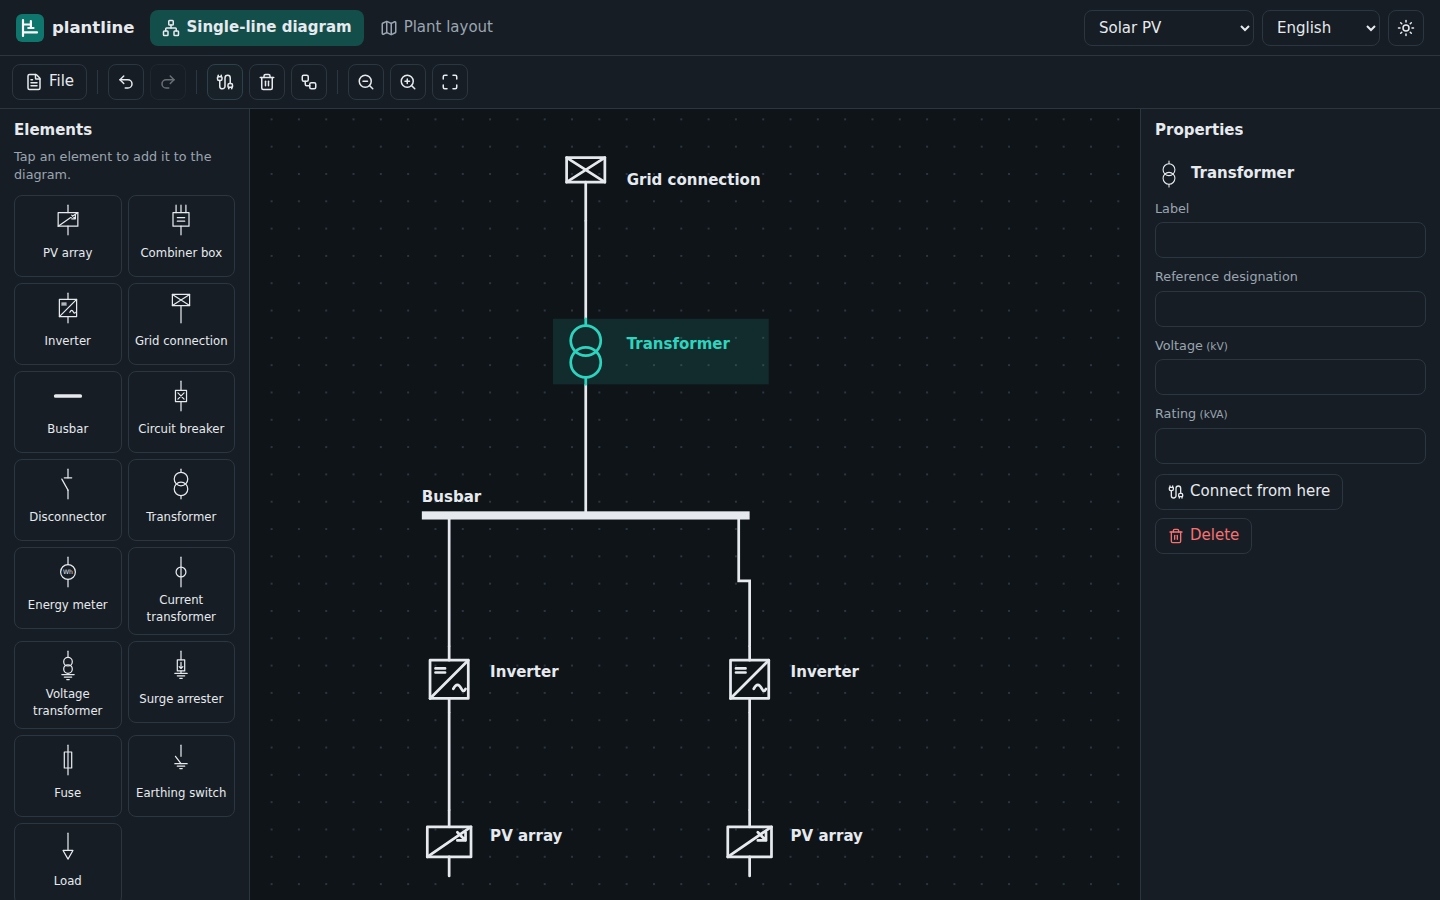
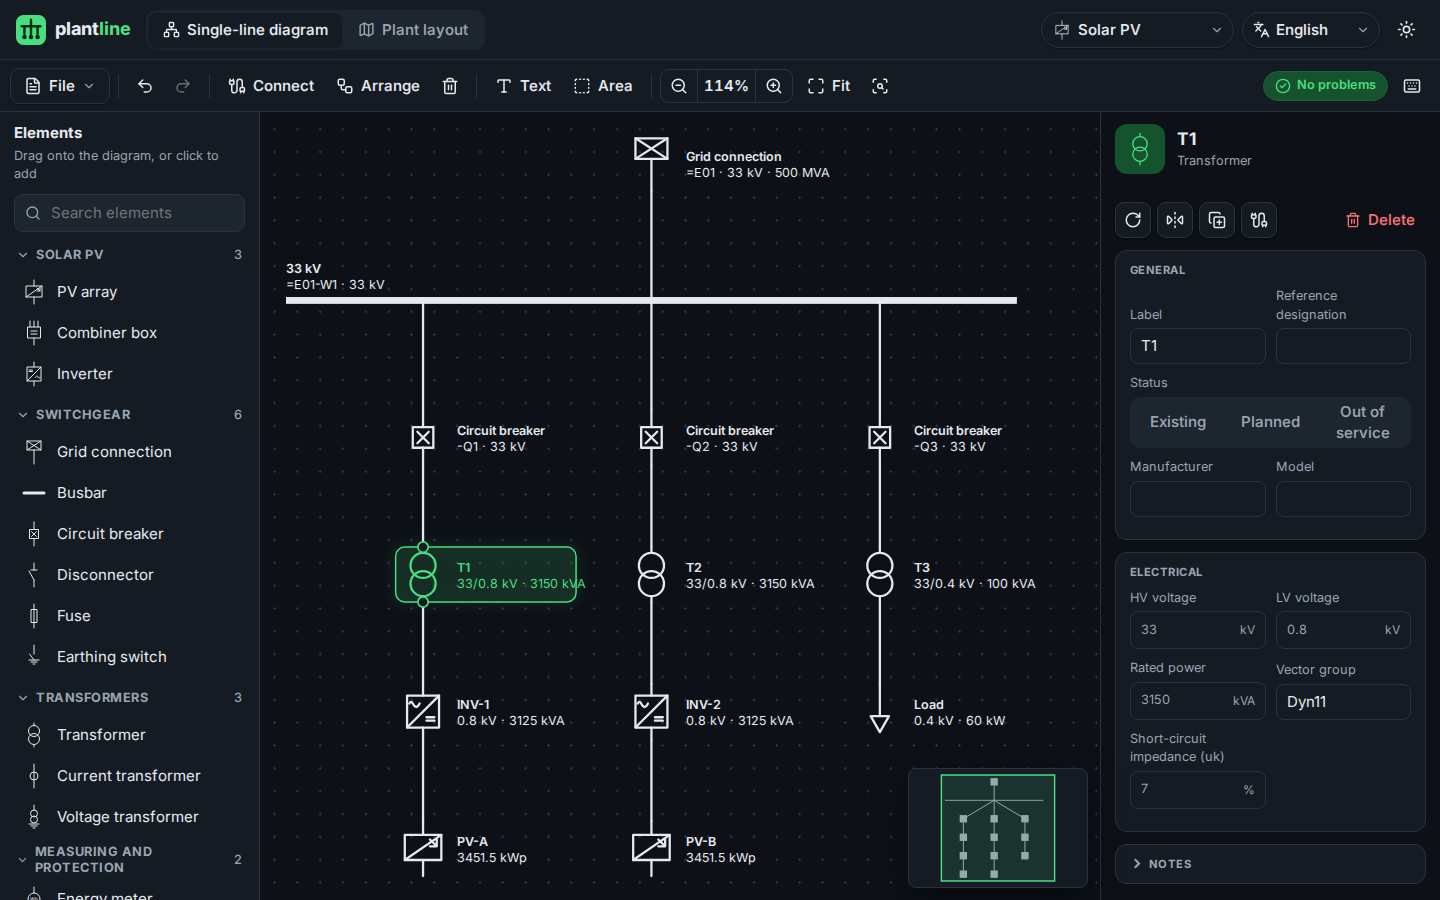
docs: README screenshots of the new design, Persian instead of Arabic (S22)
New screenshots: a solar example in the dark theme, the wind sample on satellite
imagery, the solar sample on a phone (both as JPEG) and a substation example in
Persian. Stories, tasks and test cases for the examples, dropped drawings, the phone
header menu and the toolbar's More menu. The map legend is smaller on phones; the
wind example is drawn with its turbines on top, as wind farms are.

diff --git a/web/src/diagram/examples.ts b/web/src/diagram/examples.ts
@@ -13,8 +13,12 @@ interface Element {
     width?: number;
 }
 
-/** Elements by key and the lines between them, the upper element first; laid out by Arrange. */
-type Example = { elements: Record<string, Element>; lines: [string, string][] };
+/**
+ * Elements by key and the lines between them, the upper element first; laid out by Arrange. `upward` draws the plant
+ * upside down, its sources on top feeding down to the grid at the bottom (as wind farms are drawn: a turbine's one
+ * lead is at the foot of its tower).
+ */
+type Example = { elements: Record<string, Element>; lines: [string, string][]; upward?: boolean };
 
 const grid = (kv: number, mva: number): Element => ({ kind: "gridConnection", designation: "=E01", props: { voltageKv: kv, shortCircuitMva: mva } });
 const bus = (kv: number, designation: string, width = 520): Element => ({ kind: "busbar", label: `${kv} kV`, designation, props: { voltageKv: kv, ratedCurrentA: 1250 }, width });
@@ -43,7 +47,7 @@ const EXAMPLES: Record<PlantType, () => Example> = {
         return example;
     },
     wind: () => {
-        const example: Example = { elements: { grid: grid(33, 800), bus: bus(33, "=E01-W1", 640) }, lines: [["grid", "bus"]] };
+        const example: Example = { elements: { grid: grid(33, 800), bus: bus(33, "=E01-W1", 640) }, lines: [["grid", "bus"]], upward: true };
         for (const n of [1, 2, 3]) feeder(n, 33, [transformer(`T${n}`, 33, 0.69, 4800), { kind: "windTurbine", label: `WTG-0${n}`, props: { ratedPowerKw: 4500, voltageKv: 0.69, powerFactor: 0.95 } }], example);
         return example;
     },
@@ -113,7 +117,7 @@ const EXAMPLES: Record<PlantType, () => Example> = {
 
 /** A ready-made single-line diagram of the plant type, connected and laid out, with no problems to check. */
 export function exampleDiagram(plant: PlantType, name: string): Diagram {
-    const { elements, lines } = EXAMPLES[plant]();
+    const { elements, lines, upward } = EXAMPLES[plant]();
     let diagram = emptyDiagram(plant, name);
     const ids = new Map<string, string>();
     Object.entries(elements).forEach(([key, element], index) => {
@@ -122,7 +126,18 @@ export function exampleDiagram(plant: PlantType, name: string): Diagram {
         ids.set(key, added.id);
     });
     for (const [from, to] of lines) diagram = connect(diagram, ids.get(from)!, ids.get(to)!) ?? diagram;
-    return straighten(arrange(diagram), lines.map(([from, to]) => [ids.get(from)!, ids.get(to)!]));
+    const laid = straighten(arrange(diagram), lines.map(([from, to]) => [ids.get(from)!, ids.get(to)!]));
+    return upward ? upsideDown(laid) : laid;
+}
+
+/** The diagram turned upside down: rows mirrored and every element turned over, but turbines kept upright. */
+function upsideDown(diagram: Diagram): Diagram {
+    const ys = diagram.nodes.map((node) => node.y);
+    const [top, bottom] = [Math.min(...ys), Math.max(...ys)];
+    return {
+        ...diagram,
+        nodes: diagram.nodes.map((node) => ({ ...node, y: top + bottom - node.y, rotation: node.kind === "windTurbine" || node.kind === "busbar" ? node.rotation : (((node.rotation + 180) % 360) as Rotation) })),
+    };
 }
 
 /** An element that is its upper element's only one hangs straight below it, top-down (Arrange centres whole rows). */

diff --git a/web/src/app.css b/web/src/app.css
@@ -2312,6 +2312,15 @@ kbd {
     font-variant-numeric: tabular-nums;
 }
 
+@media (max-width: 720px) {
+    .map-legend {
+        min-width: 0;
+        max-height: 32%;
+        padding: 7px 9px;
+        font-size: 0.72rem;
+    }
+}
+
 /* What a counted object is, over the map: a dark tooltip, and a popup in the app's colours */
 .object-tooltip,
 .object-popup .leaflet-popup-content {

diff --git a/docs/test-cases.md b/docs/test-cases.md
@@ -16,6 +16,7 @@ request ([CI](../.github/workflows/ci.yml)).
 | --- | --- | --- | --- |
 | TC-01 | US-01 | The first visit asks for the plant type; the palette then starts with that plant's equipment. | `App.test.tsx` › asks for the plant type on the first visit…; e2e › every test starts this way |
 | TC-02 | US-01 | Every plant type has a palette of known elements, without repeats, with a grid connection. | `plants.test.ts` › give every plant type a palette… |
+| TC-02a | US-10 | Every element is in exactly one palette group; the palette's search and groups show the plant type's elements in its own order. | `plants.test.ts` › put every element in exactly one palette group; `App.test.tsx` › changes the palette with the plant type… |
 | TC-03 | US-02 | Changing the plant type changes the palette and keeps the diagram. | `App.test.tsx` › changes the palette with the plant type and keeps the diagram |
 | TC-04 | US-03 | Every language has exactly the English messages, none empty, with the same placeholders. | `i18n.test.ts` › have a file for every language… |
 | TC-05 | US-03 | Every plant type and every element and object kind has a name. | `i18n.test.ts` › name every plant type… |
@@ -28,6 +29,10 @@ request ([CI](../.github/workflows/ci.yml)).
 | TC-76 | US-03 | English shows Inter and Persian Estedad, both served with the site. | e2e › shows its own fonts, Estedad for Persian… |
 | TC-77 | US-05, US-41 | The app icons in the manifest, the home screen icon and the link preview image exist. | e2e › shows its own fonts… and has app icons and a link preview |
 | TC-78 | US-04 | The header's logo is the favicon's mark, drawn in the theme's colours. | `Logo.test.tsx` › draws the same mark as the favicon |
+| TC-96 | US-05 | On a phone, the plant type, language and theme are in the header's menu, and choosing a language closes it. | e2e › every phone test that changes the language |
+| TC-97 | US-05, US-18a | A narrower window keeps Delete, texts, areas, Zoom to selection and Shortcuts in a More menu; a phone keeps them, with the file actions, in the bottom bar's menu. | e2e › shows and resets the zoom…, builds, connects, checks and saves… |
+| TC-98 | US-06 | Every plant type's example is connected, of its own elements, without problems, laid out without overlaps, and saves and opens unchanged. | `examples.test.ts` |
+| TC-99 | US-06 | The empty diagram opens this or another plant type's example (switching the plant type), with No problems; Undo takes it back; File offers the example too. | e2e › opens a ready-made example from the empty diagram… |
 
 ## Single-line diagram
 
@@ -129,6 +134,8 @@ request ([CI](../.github/workflows/ci.yml)).
 | TC-73 | US-31, US-39 | A large plant's own shapes are projected point by point while its small blocks are still placed through transforms, within 2 cm. | `scene.test.ts` › projects a large plant's own shapes… |
 | TC-74 | US-39 | A generated plant the size of a real one (17,920 modules nested four deep, about 700,000 points) reads three times in the WebAssembly reader within the limits: 6 s and 650 MB. | CI › Read a large drawing… (`scripts/check-reader.mjs`) |
 | TC-75 | US-05, US-39 | The compressed download stays within its limits: the app's scripts and styles 300 KB, the drawing reader 7 MB. | CI › Download sizes… (`scripts/check-size.mjs`) |
+| TC-100 | US-30a | A DXF dropped onto the plant layout is read and counted. | e2e › opens a drawing dropped onto the plant layout |
+| TC-101 | US-31 | Another plant type's sample card switches the plant type and reads its sample. | e2e › opens the sample of another plant type… |
 
 ## Checked by hand before each release
 

diff --git a/docs/user-stories.md b/docs/user-stories.md
@@ -33,16 +33,22 @@ battery storage, hydropower, substation or transmission line), so the tool shows
 - Latin, Greek and Cyrillic letters use Inter and Arabic and Persian use Estedad on every device, served with the site.
 - Every message exists in every language.
 
-**US-04 Light or dark.** As a user, I choose a light or dark theme; the first one follows my system. The map stays
-readable in both, and satellite imagery keeps its real colours.
+**US-04 Light or dark.** As a user, I choose a light or dark theme, or follow my system (the first choice). The map
+stays readable in both, and satellite imagery keeps its real colours.
 
 **US-05 Phones and tablets.** As a field engineer, I use plantline on a phone or tablet.
 - The page never scrolls sideways; the toolbar scrolls within the screen.
+- The header is one row: the two views and a menu with the plant type, the language and the theme.
+- The toolbar keeps the most used tools; the others (and the file actions) are in the bottom bar's menu.
 - The palette, properties and drawing details open as sheets from a bar at the bottom.
 - The diagram pans with a finger and zooms with two.
 - Added to the home screen, it has its own icon.
 
 ## Epic B: Single-line diagram
+
+**US-06 Start from an example.** As a new user, I open a ready-made single-line diagram of any plant type (connected,
+with no problems to check) from the empty diagram, or the current plant type's from the File menu, and change it.
+Another plant type's example switches the plant type. The empty diagram also says, in three steps, how to start.
 
 **US-10 Add equipment.** As a design engineer, I drag an element from the palette onto the drawing, where it lands on
 the grid point under the pointer, or I tap it and it appears in the middle of the view; either way it is selected.
@@ -159,7 +165,11 @@ browser and never uploaded. While it is read I see the time so far and can cance
 or a reader that cannot be loaded each give a clear message at once, with "Try again" where it may help; a file likely
 too large for my device's memory is read only if I agree.
 
-**US-31 Try a sample.** Without a drawing of my own, I open a made-up sample of the current plant type.
+**US-30a Drop a drawing.** I drop a DWG or DXF onto the plant layout to read it, also over a drawing already open.
+
+**US-31 Try a sample.** Without a drawing of my own, I open a made-up sample of any plant type, each card saying what
+it holds; another plant type's sample switches the plant type. The samples are drawn as real plant drawings are, on
+real ground.
 
 **US-32 Recognise and count.** The objects of the drawing are recognised by their block and layer names, with rules
 for the plant type: counted (tables, strings, inverters, turbines, batteries, generators, transformers, breakers,

diff --git a/README.md b/README.md
@@ -34,7 +34,7 @@ plantline is a web tool for the people who design, build and run power plants. D
 
 ### Plant layouts from AutoCAD drawings
 
-![A wind farm drawing on the map with its turbines, cables and roads counted](docs/images/layout-wind.png)
+![A wind farm drawing on the map with its turbines, cables and roads counted](docs/images/layout-wind.jpg)
 
 - **Open DWG or DXF** drawings from AutoCAD, PVcase or any CAD tool, up to 100 MB. The drawing is read in your browser.
 - **Recognise the plant:** block and layer names are matched to tables, strings, inverters, turbines, batteries, transformers, breakers, towers, cables, roads and fences. Each plant type has its own rules, and you can edit them.
@@ -50,7 +50,7 @@ plantline is a web tool for the people who design, build and run power plants. D
 
 | Phone, plant layout | Arabic, right to left |
 | --- | --- |
-| ![The solar sample on a phone](docs/images/phone-layout.png) | ![The substation palette in Arabic](docs/images/arabic.png) |
+| ![The solar sample on a phone](docs/images/phone-layout.jpg) | ![A substation diagram in Persian, right to left](docs/images/persian.png) |
 
 ## Your files stay yours
 

diff --git a/docs/tasks.md b/docs/tasks.md
@@ -25,6 +25,7 @@ The work behind each [user story](user-stories.md), in the order it was done, an
 | T-17 | CI: tests on every push and pull request; GitHub Pages on `main`; actions pinned to commits. | US-41 | `.github/workflows/ci.yml` |
 | T-18 | Supply chain: packages at least 7 days old (pnpm and Dependabot), versions at least two weeks old at release. | US-42 | `web/pnpm-workspace.yaml`, `.github/dependabot.yml` |
 | T-19 | Documents: README, user stories, tasks, test cases, architecture, contributing, security, changelog. | all | `README.md`, `docs/`, root files |
+| T-20 | Interface refresh: one set of components (buttons, segmented controls, pills, cards, menus with keys, status chips); header, toolbar, palette, properties, map and first use; examples per plant type; drawings dropped onto the layout. | US-04, US-05, US-06, US-30a, US-31 | `web/src/app.css`, `web/src/ui/controls.tsx`, `web/src/diagram/examples.ts` |
 
 ## Backlog
 
